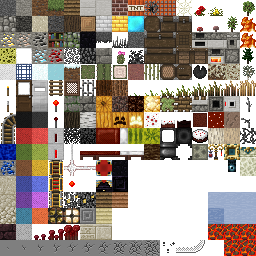
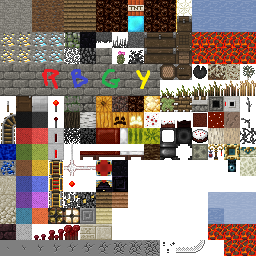
Make bad texture 32p Add Wall color by team (working with claim)

Changed region(s): [[0.0, 0.0, 0.625, 0.375], [0.75, 0.0, 1.0, 0.25], [0.5625, 0.0, 0.7188, 0.125]]

diff --git a/src/main/java/fr/karang/dungeoncreeper/player/Team.java b/src/main/java/fr/karang/dungeoncreeper/player/Team.java
@@ -98,11 +98,11 @@ public class Team {
 			GREEN.teamMesh.put(DCMaterials.FLOOR, (Mesh)Spout.getFilesystem().getResource("cubemesh://DungeonCreeper/resources/block/dungeon/bridge/bridge.uvs"));
 			YELLOW.teamMesh.put(DCMaterials.FLOOR, (Mesh)Spout.getFilesystem().getResource("cubemesh://DungeonCreeper/resources/block/dungeon/bridge/bridge.uvs"));
 			
-			NEUTRAL.teamMesh.put(DCMaterials.WALL, (Mesh)Spout.getFilesystem().getResource("cubemesh://DungeonCreeper/resources/block/dungeon/bridge/bridge.uvs"));
-			RED.teamMesh.put(DCMaterials.WALL, (Mesh)Spout.getFilesystem().getResource("cubemesh://DungeonCreeper/resources/block/dungeon/bridge/bridge.uvs"));
-			BLUE.teamMesh.put(DCMaterials.WALL, (Mesh)Spout.getFilesystem().getResource("cubemesh://DungeonCreeper/resources/block/dungeon/bridge/bridge.uvs"));
-			GREEN.teamMesh.put(DCMaterials.WALL, (Mesh)Spout.getFilesystem().getResource("cubemesh://DungeonCreeper/resources/block/dungeon/bridge/bridge.uvs"));
-			YELLOW.teamMesh.put(DCMaterials.WALL, (Mesh)Spout.getFilesystem().getResource("cubemesh://DungeonCreeper/resources/block/dungeon/bridge/bridge.uvs"));
+			NEUTRAL.teamMesh.put(DCMaterials.WALL, (Mesh)Spout.getFilesystem().getResource("cubemesh://DungeonCreeper/resources/block/dungeon/wall/wall.uvs"));
+			RED.teamMesh.put(DCMaterials.WALL, (Mesh)Spout.getFilesystem().getResource("cubemesh://DungeonCreeper/resources/block/dungeon/wall/wallRed.uvs"));
+			BLUE.teamMesh.put(DCMaterials.WALL, (Mesh)Spout.getFilesystem().getResource("cubemesh://DungeonCreeper/resources/block/dungeon/wall/wallBlue.uvs"));
+			GREEN.teamMesh.put(DCMaterials.WALL, (Mesh)Spout.getFilesystem().getResource("cubemesh://DungeonCreeper/resources/block/dungeon/wall/wallGreen.uvs"));
+			YELLOW.teamMesh.put(DCMaterials.WALL, (Mesh)Spout.getFilesystem().getResource("cubemesh://DungeonCreeper/resources/block/dungeon/wall/wallYellow.uvs"));
 		}
 
 	}

diff --git a/src/main/java/fr/karang/dungeoncreeper/material/dungeon/Wall.java b/src/main/java/fr/karang/dungeoncreeper/material/dungeon/Wall.java
@@ -26,11 +26,41 @@
  */
 package fr.karang.dungeoncreeper.material.dungeon;
 
+import org.spout.api.Spout;
+import org.spout.api.geo.World;
+import org.spout.api.geo.cuboid.Block;
+import org.spout.api.model.mesh.Mesh;
+import org.spout.api.render.effect.MeshEffect;
+import org.spout.api.render.effect.SnapshotMesh;
+
+import fr.karang.dungeoncreeper.material.DCMaterial;
+import fr.karang.dungeoncreeper.player.Team.TeamColor;
+
 
 public class Wall extends DungeonMaterial {
 
 	public Wall() {
 		super("Wall", "model://DungeonCreeper/resources/block/dungeon/wall/wall.spm");
+		addMeshEffect(new MeshEffect() {
+
+			public void preMesh(SnapshotMesh snapshotMesh) {
+				World world = snapshotMesh.getPosition().getWorld();
+				Block block = world.getBlock(snapshotMesh.getPosition());
+				DCMaterial material = (DCMaterial)block.getMaterial();
+				TeamColor team = material.getOwner(block);
+				if(team != null){
+					Mesh mesh = team.getTeamMesh(material);
+					if(mesh != null){
+						snapshotMesh.setMesh(mesh);
+					}
+				}
+			}
+
+			public void postMesh(SnapshotMesh snapshotMesh) {
+				// TODO Auto-generated method stub
+
+			}
+		});
 	}
 
 }
